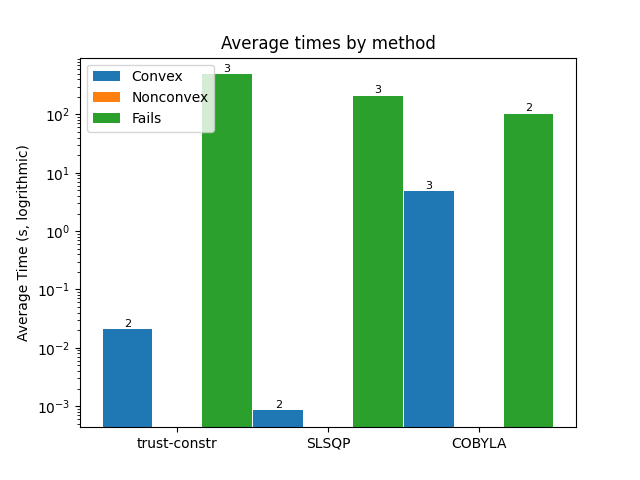
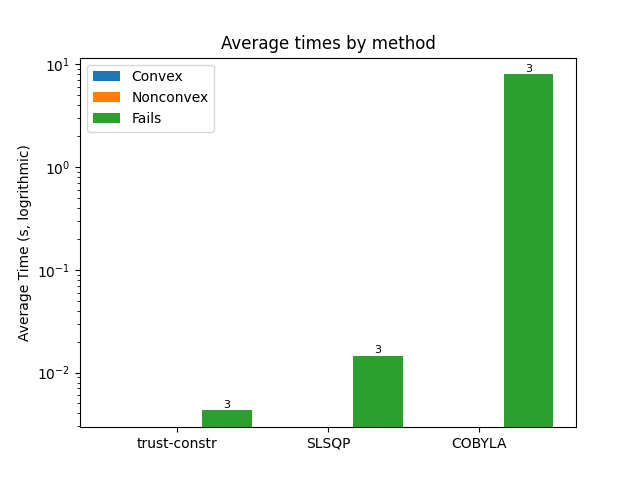
aaa

diff --git a/src/complexCon.py b/src/complexCon.py
@@ -112,7 +112,6 @@ def graph(Tlist, Slist, Clist):
     annotate_bars(bars3, total_fail)
 
     plt.savefig("./outputimages/complexconstrained.png")
-    plt.show()
 
 def main():
     clearcache()
@@ -121,18 +120,84 @@ def main():
     print("Complex Constraints problems: " + str(len(complex_constraints)))
     complex_constraints = complex_constraints[:5]
     
+    alreadysolvedproblems = []
+    with open("./checkpointfiles/complexCons.csv") as f:
+        for line in f:
+            parts = line.strip().split(",")
+            alreadysolvedproblems.append(parts[0])
+    
     Tlist = []
     Slist = []
     Clist = []
     
+    #problem names keeps track of the problems solved
+    #counter countes to 3 to stop the loop
+    problemNames = []
+    counter = 0
     for i in complex_constraints:
-        a = solver(i)
-        Tlist.append(a.complex_bounds("trust-constr"))
-        clearcache()
-        Slist.append(a.complex_bounds("SLSQP"))
-        clearcache()
-        Clist.append(a.complex_bounds("COBYLA"))
+        if i not in alreadysolvedproblems:
+            a = solver(i)
+            problemNames.append(i)
+            Tlist.append(a.simple_bounds("trust-constr"))
+            clearcache()
+            Slist.append(a.simple_bounds("SLSQP"))
+            clearcache()
+            Clist.append(a.simple_bounds("COBYLA"))
+            counter += 1
+        #only want 3 probs for each run
+        if counter == 3:
+            break
+    
+    counter = 0
+    with open("./checkpointfiles/complexCons.csv", "a") as f:
+        counter = 0
+        for i in Tlist:
+            f.write(f"{problemNames[counter]},trust-constr,{i[0]},{i[1]},{i[2]}\n")
+            counter += 1
+                
+        counter = 0
+        for i in Slist:
+            f.write(f"{problemNames[counter]},SLSQP,{i[0]},{i[1]},{i[2]}\n")
+            counter += 1
+            
+        counter = 0
+        for i in Clist:
+            f.write(f"{problemNames[counter]},COBYLA,{i[0]},{i[1]},{i[2]}\n")
+            counter += 1 
         
+        
+    Tlist, Slist, Clist, temp = [], [], [], []
+    with open("./checkpointfiles/complexCons.csv") as f:
+        for line in f:
+            line = line.strip().split(",")
+            if line[1] == "trust-constr":
+                temp.append(int(line[2]))
+                temp.append(float(line[3]))
+                if line[4].lower() == "none":
+                    temp.append(None)
+                else:
+                    temp.append(int(line[4]))
+                Tlist.append(temp)
+                temp = []
+            elif line[1] == "SLSQP":
+                temp.append(int(line[2]))
+                temp.append(float(line[3]))
+                if line[4].lower() == "none":
+                    temp.append(None)
+                else:
+                    temp.append(int(line[4]))
+                Slist.append(temp)
+                temp = []
+            elif line[1] == "COBYLA":
+                temp.append(int(line[2]))
+                temp.append(float(line[3]))
+                if line[4].lower() == "none":
+                    temp.append(None)
+                else:
+                    temp.append(int(line[4]))
+                Clist.append(temp)
+                temp = []
+                
     graph(Tlist, Slist, Clist)
         
     

diff --git a/src/solvers.py b/src/solvers.py
@@ -28,6 +28,13 @@ class solver:
     
     
     def simple_bounds(self, method):
+        #This is a check to make my mac not crash :(
+        n = self.p.n
+        m = getattr(self.p, "m", 0)
+        if n > 5000 or m > 20000:
+            print(f"Skipping {self.name}: too large for {method} (n={n}, m={m})\n")
+            return [0, 0.0, None]
+
         #start timer so it has full function scope
         start = time.perf_counter()
         
@@ -239,6 +246,12 @@ class solver:
     
         
     def unbounded(self, method):
+         #This is a check to make my mac not crash :(
+        n = self.p.n
+        m = getattr(self.p, "m", 0)
+        if n > 4000 or m > 10000:
+            print(f"Skipping {self.name}: too large for {method} (n={n}, m={m})\n")
+            return [0, 0.0, None]
         #start timer so it has full function scope
         start = time.perf_counter()
         
@@ -285,7 +298,8 @@ class solver:
                 convex_flag = 1
             else:
                 convex_flag = 0
-                
+            
+            print(f"Dimension: {self.p.n}")
             print(f"Convexity: {convex_flag}  (Smallest eigenvalue:{eigenvalue:.3e})\n")
             
             if res.success:
@@ -299,6 +313,7 @@ class solver:
             print("Method: " + method)
             print("Problem: " + str(self.name))
             print(f"Time: {total:.2f}")
+            print(f"Dimension: {self.p.n}")
             print(f"Success: Timeout\n")
             return [0, total, None]
         
@@ -308,6 +323,7 @@ class solver:
             print("Method: " + method)
             print("Problem: " + str(self.name))
             print(f"Time: {total:.2f}")
+            print(f"Dimension: {self.p.n}")
             print(f"Error: {e}\n")
             return [0, total, None]    
     
